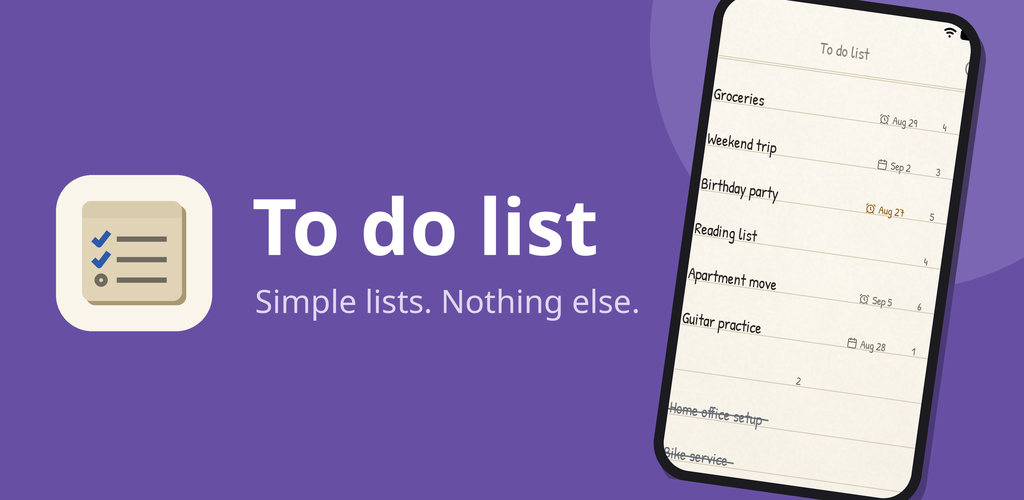
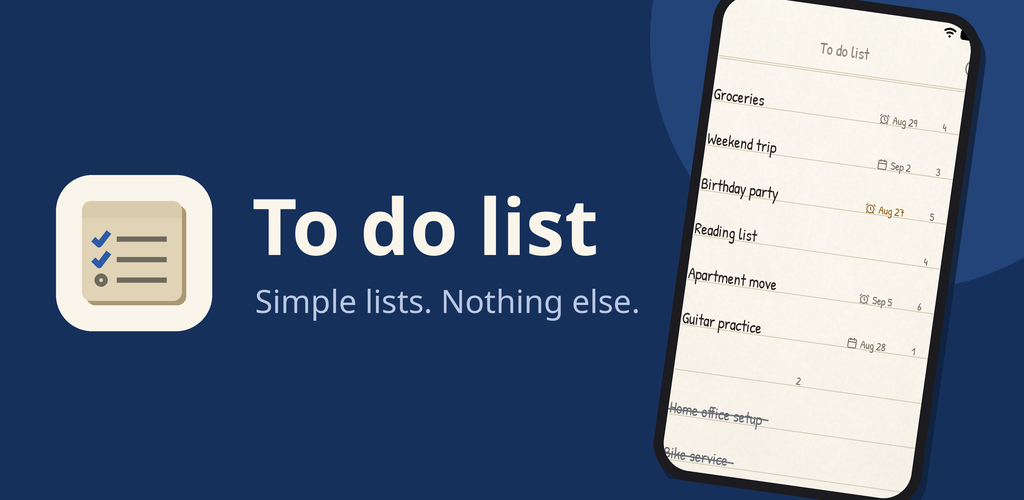
docs: field the listing in the pen the app writes with
Purple was the last thing left over from the Material identity; nothing in
the app has been that colour since the paper rework. The field is now
inkBlueDeep, the pen the ticks on the tile are drawn in, so the graphic and
the icon read as one system. The script keeps shadow, desk and red — the
pad's other darks — as arguments.

diff --git a/store-assets/listing/make-feature-graphic.py b/store-assets/listing/make-feature-graphic.py
@@ -6,7 +6,10 @@ the wordmark on a flat field, a tilted phone standing off the right edge. What
 changed underneath is the app — the icon is the checklist card and the screen
 is ruled paper, so the field is what has to carry the contrast.
 
-    python3 make-feature-graphic.py [purple|kraft]
+The field is the pen the app ticks with, not the Material purple the listing
+was born in: every colour here is one the pad itself could draw.
+
+    python3 make-feature-graphic.py [ink|shadow|desk|red]
 """
 import os
 import sys
@@ -22,8 +25,13 @@ W, H = 1024, 500
 S = 4  # supersampling
 
 FIELDS = {
-    "purple": ((103, 80, 164), (122, 102, 178), (255, 255, 255), (223, 214, 240)),
-    "kraft": ((74, 62, 48), (95, 80, 62), (250, 245, 234), (214, 200, 176)),
+    # field, the tonal blob behind the phone, the wordmark, the catchphrase.
+    # Every field is one of the pad's own darks, so the sheet is never on a
+    # colour the app itself could not draw.
+    "ink": ((22, 48, 92), (35, 68, 120), (250, 245, 234), (185, 200, 226)),
+    "shadow": ((58, 42, 16), (78, 58, 27), (250, 245, 234), (214, 200, 176)),
+    "desk": ((20, 18, 16), (34, 30, 25), (250, 245, 234), (201, 191, 172)),
+    "red": ((90, 30, 24), (116, 42, 34), (250, 245, 234), (227, 196, 188)),
 }
 
 PAPER = (250, 245, 234)
@@ -93,7 +101,7 @@ def phone_layer(size):
 
 
 def main():
-    which = sys.argv[1] if len(sys.argv) > 1 else "purple"
+    which = sys.argv[1] if len(sys.argv) > 1 else "ink"
     field, glow, title_ink, sub_ink = FIELDS[which]
     out = os.path.join(HERE, "feature-graphic.png" if len(sys.argv) <= 1
                        else "feature-graphic-%s.png" % which)
